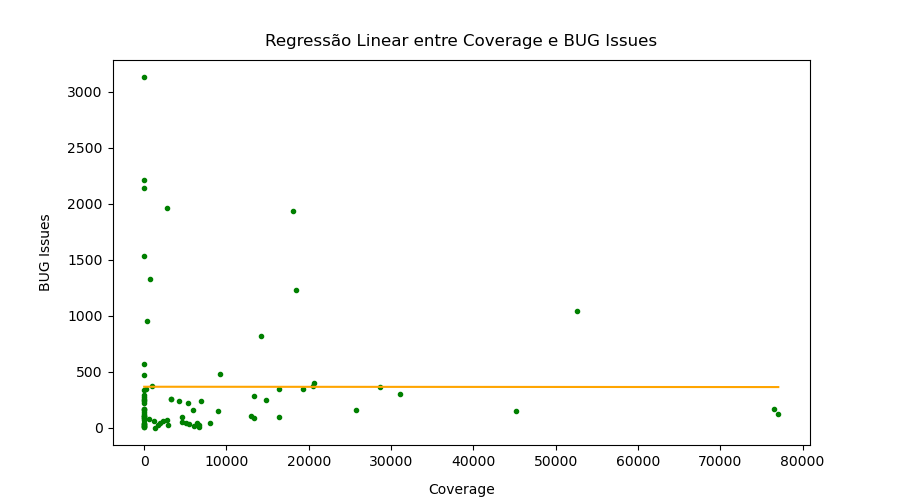
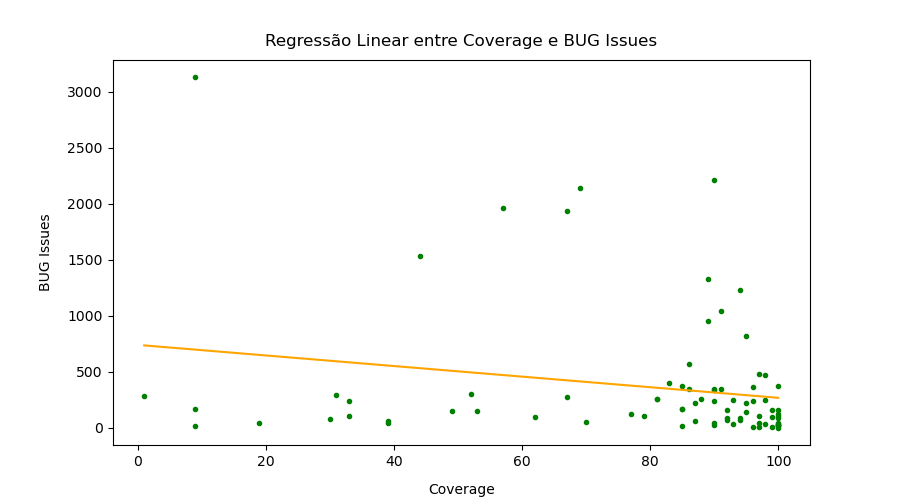
Corrigida inversão das variáveis na leitura dos arrays

diff --git a/Scripts/analisador_resultados.py b/Scripts/analisador_resultados.py
@@ -72,8 +72,8 @@ def get_regressao_linear_e_coeficiente_pearson():
                 else:
                     linha_splitada = linha.split(',')
                     lista_bug_issues.append(float(linha_splitada[3]))
-                    lista_locs_teste.append(float(linha_splitada[2].replace("%","")))
-                    lista_coverages.append(float(linha_splitada[5]))
+                    lista_coverages.append(float(linha_splitada[2].replace("%","")))
+                    lista_locs_teste.append(float(linha_splitada[5]))
 
     deseja_mostrar_imagem = easygui.ynbox("Você deseja ver os gráficos que serão exportados?",  "Mostrar gráficos?", ('Sim', 'Não'))
     
